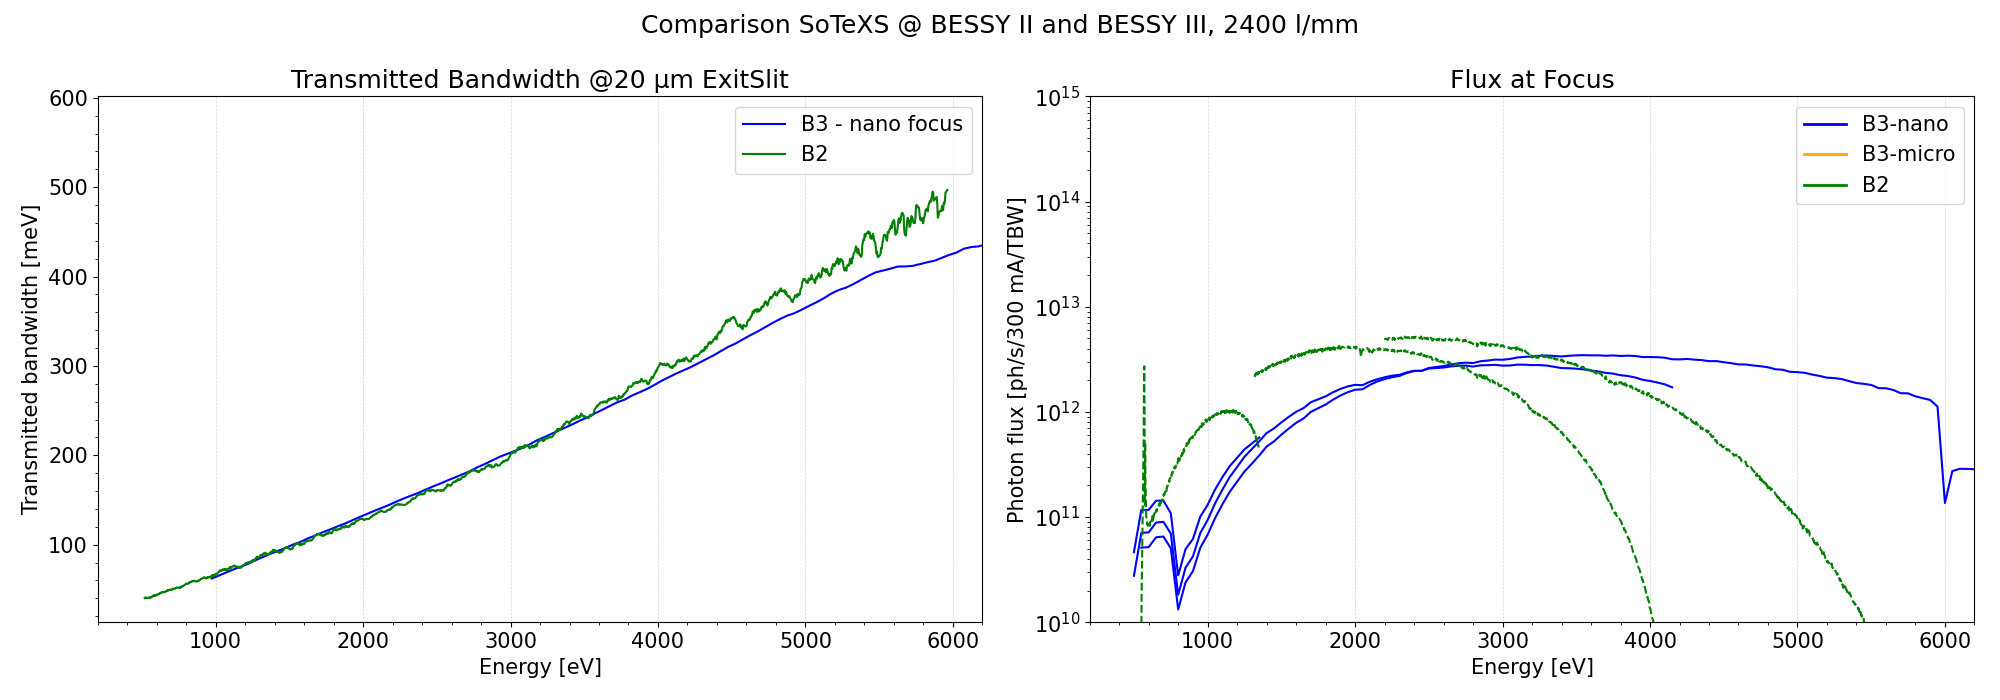
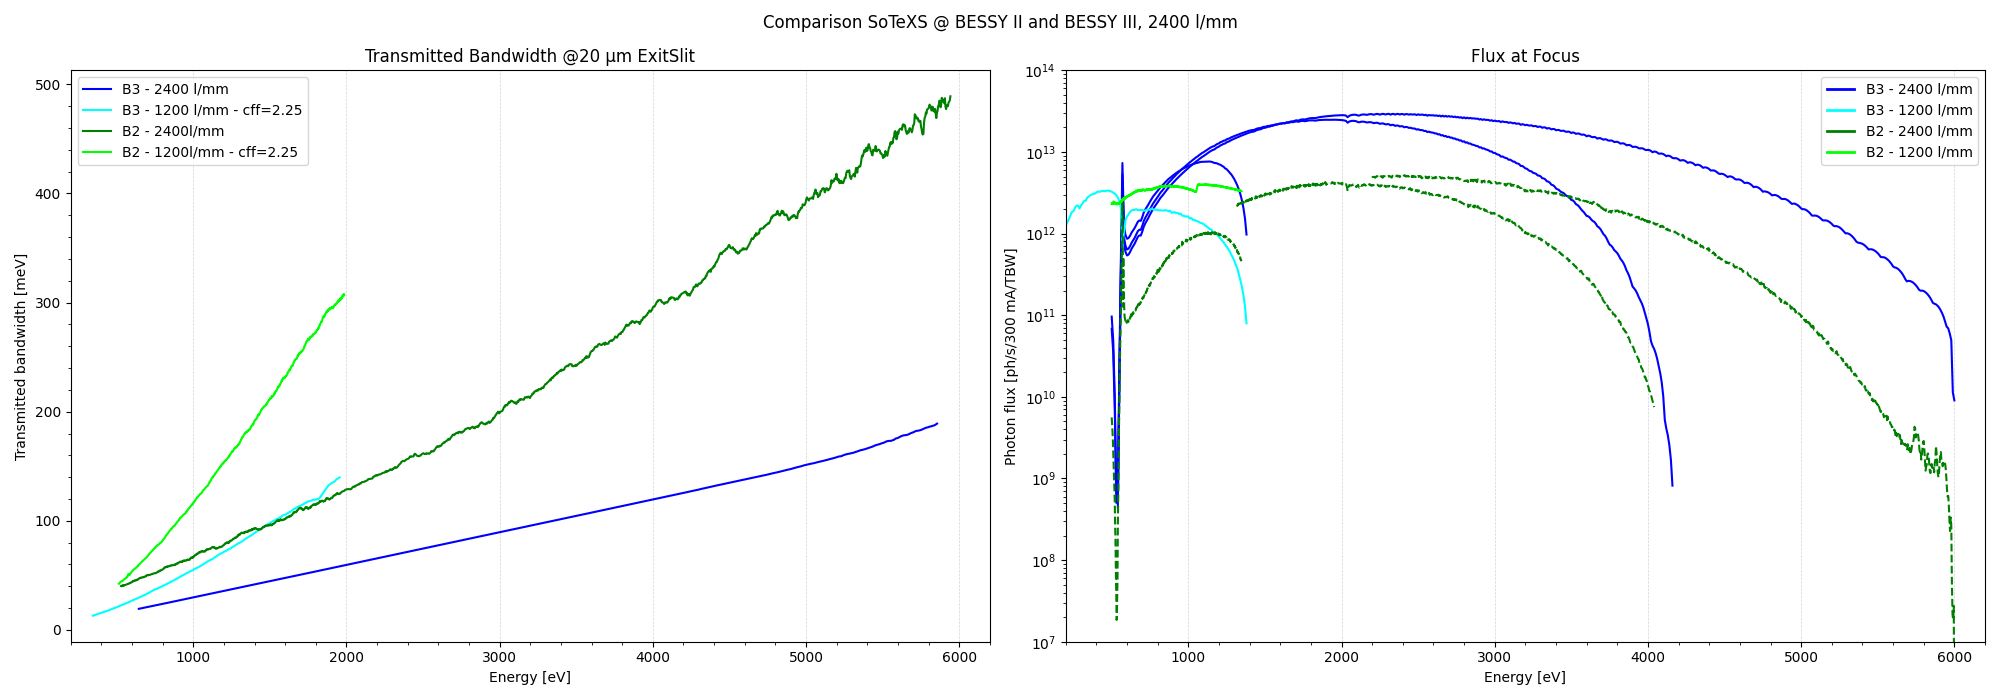
eval

diff --git a/beamlines/Signature2-Liquid_Interface/simulations/comparison_with_sotexs_BII/eval_2400_talk.py b/beamlines/Signature2-Liquid_Interface/simulations/comparison_with_sotexs_BII/eval_2400_talk.py
@@ -24,95 +24,106 @@ mov_av = p.moving_average
 # LOAD IN DATA
 
 # Read CSV-File of the Beamline Simulation
-BL_file_path = os.path.join('../../../Signature1-SoTeXS/simulations/characterization/RAYPy_Simulation_sotexs_2400', 'DetectorAtFocus_RawRaysOutgoing.csv')
+BL_file_path = os.path.join('../characterization/RAYPy_Simulation_elisa_2400', 'DetectorAtFocus_RawRaysOutgoing.csv')
 BL_df = pd.read_csv(BL_file_path)
 
+# Read CSV-File of the Beamline Simulation
+BL_file_path = os.path.join('../characterization/RAYPy_Simulation_elisa_1200', 'DetectorAtFocus_RawRaysOutgoing.csv')
+BL_df_1200 = pd.read_csv(BL_file_path)
+BL_df_1200_5 = BL_df_1200[BL_df_1200['PG.cFactor'] == 5]
+BL_df_1200 = BL_df_1200[BL_df_1200['PG.cFactor'] == 2.25]
 
 # Read CSV-File of the Beamline Simulation
 BL_file_path = os.path.join('RAYPy_Simulation_2400', 'DetectorAtFocus_RawRaysOutgoing.csv')
 BL_df_2 = pd.read_csv(BL_file_path)
 
+# Read CSV-File of the Beamline Simulation
+BL_file_path = os.path.join('RAYPy_Simulation_1200_Pt', 'DetectorAtFocus_RawRaysOutgoing.csv')
+BL_df_2_1200 = pd.read_csv(BL_file_path)
+BL_df_2_1200 = BL_df_2_1200[BL_df_2_1200['PhotonEnergy'] <= 2000]
+
 harms=[1,3,5]
-##############################################################
-# PLOTTING AND ANALYSIS
-plt.rcParams.update({'font.size': 15})  # Change 14 to any size you prefer
-# Create the Main figure
-fig, (axs) = plt.subplots(1, 2, figsize=(20, 7))
-fig.suptitle('Comparison Liquid Interface @ BESSY III and SoTeXS @ BESSY II, 2400 l/mm')
 x_range = [200, 6200]
 
-# MIRROR REFLECTIVITY
-ax1 = axs[0]
-# Coatings:
-de = 0.01
-table = 'Henke'
-theta = 0.4
-E = np.arange(x_range[0], x_range[-1], de)
-Ir  = rm.Material('Ir',  rho=22.56, kind='mirror',table=table)
-Cr  = rm.Material('Cr',  rho=7.15,  kind='mirror',table=table)
-B4C = rm.Material('C',   rho=2.52,  kind='mirror',table=table)
-IrCrB4C = rm.Multilayer(tLayer=B4C, tThickness=40, 
-                        bLayer=Cr, bThickness=60, 
-                        nPairs=1, substrate=Ir)
+# ##############################################################
+# # PLOTTING AND ANALYSIS
+# plt.rcParams.update({'font.size': 15})  # Change 14 to any size you prefer
+# # Create the Main figure
+# fig, (axs) = plt.subplots(1, 2, figsize=(20, 7))
+# fig.suptitle('Comparison Liquid Interface @ BESSY III and SoTeXS @ BESSY II, 2400 l/mm')
 
-Ir, _ = get_reflectivity(Ir, E=E, theta=theta)
-Cr, _ = get_reflectivity(Cr, E=E, theta=theta)
-B4C, _ = get_reflectivity(B4C, E=E, theta=theta)
-IrCrB4C, _ = get_reflectivity(IrCrB4C, E=E, theta=theta)
+# # MIRROR REFLECTIVITY
+# ax1 = axs[0]
+# # Coatings:
+# de = 0.01
+# table = 'Henke'
+# theta = 0.4
+# E = np.arange(x_range[0], x_range[-1], de)
+# Ir  = rm.Material('Ir',  rho=22.56, kind='mirror',table=table)
+# Cr  = rm.Material('Cr',  rho=7.15,  kind='mirror',table=table)
+# B4C = rm.Material('C',   rho=2.52,  kind='mirror',table=table)
+# IrCrB4C = rm.Multilayer(tLayer=B4C, tThickness=40, 
+#                         bLayer=Cr, bThickness=60, 
+#                         nPairs=1, substrate=Ir)
 
-ax1.plot(E, Ir, 'gold', label='Ir', alpha=0.5)
-ax1.plot(E, Cr, 'blue', label='Cr', alpha=0.5)
-ax1.plot(E, B4C, 'red', label='B4C', alpha=0.5)
-ax1.plot(E, IrCrB4C, 'black', label='IrCrB4C', linewidth=2)
+# Ir, _ = get_reflectivity(Ir, E=E, theta=theta)
+# Cr, _ = get_reflectivity(Cr, E=E, theta=theta)
+# B4C, _ = get_reflectivity(B4C, E=E, theta=theta)
+# IrCrB4C, _ = get_reflectivity(IrCrB4C, E=E, theta=theta)
 
-ax1.set_title('Mirror Coating Reflectivity @ 'f'{theta}° incident angle')
-ax1.set_xlabel('Energy [eV]')
-ax1.set_ylabel('Reflectivity [a.u.]')
-ax1.legend()
-ax1.set_xlim(x_range)
-ax1.minorticks_on()
-ax1.grid(which='major', axis='x', linestyle='--', linewidth=0.5, color='lightgrey')
+# ax1.plot(E, Ir, 'gold', label='Ir', alpha=0.5)
+# ax1.plot(E, Cr, 'blue', label='Cr', alpha=0.5)
+# ax1.plot(E, B4C, 'red', label='B4C', alpha=0.5)
+# ax1.plot(E, IrCrB4C, 'black', label='IrCrB4C', linewidth=2)
 
-
-
-ax3 = axs[0]
-
-window = 20
-colors = ['red', 'blue', 'green']
-color_B2 = ['salmon', 'skyblue', 'lightgreen']
+# ax1.set_title('Mirror Coating Reflectivity @ 'f'{theta}° incident angle')
+# ax1.set_xlabel('Energy [eV]')
+# ax1.set_ylabel('Reflectivity [a.u.]')
+# ax1.legend()
+# ax1.set_xlim(x_range)
+# ax1.minorticks_on()
+# ax1.grid(which='major', axis='x', linestyle='--', linewidth=0.5, color='lightgrey')
 
 
-ax3 = axs[1]
-for ind,harm in enumerate(harms):
-    ax3.plot(undulator_3[f'Energy{harm}[eV]'], 
-             undulator_3[f'Photons{harm}'],
-             color=colors[ind], linestyle='solid',
-             label=f'B3-Harm. {harm}')
-for ind,harm in enumerate(harms):
-    ax3.plot(undulator_2[f'Energy{harm}[eV]'], 
-             undulator_2[f'Photons{harm}'],
-             color=colors[ind], linestyle='dashed',
-             label=f'B2-Harm. {harm}')
+
+# ax3 = axs[0]
+
+# window = 20
+# colors = ['red', 'blue', 'green']
+# color_B2 = ['salmon', 'skyblue', 'lightgreen']
+
+
+# ax3 = axs[1]
+# for ind,harm in enumerate(harms):
+#     ax3.plot(undulator_3[f'Energy{harm}[eV]'], 
+#              undulator_3[f'Photons{harm}'],
+#              color=colors[ind], linestyle='solid',
+#              label=f'B3-Harm. {harm}')
+# for ind,harm in enumerate(harms):
+#     ax3.plot(undulator_2[f'Energy{harm}[eV]'], 
+#              undulator_2[f'Photons{harm}'],
+#              color=colors[ind], linestyle='dashed',
+#              label=f'B2-Harm. {harm}')
     
-ax3.legend()
-ax3.set_yscale('log')
-ax3.set_xlabel('Energy [eV]')
-ax3.set_ylabel('Ph/s/0.3A/0.1%BW')
-ax3.set_xlim(x_range)
-ax3.set_ylim(9e7, 5e15)
-ax3.set_title('IVUE42 @ BESSY III vs CPMU21 @ BESSY II')
+# ax3.legend()
+# ax3.set_yscale('log')
+# ax3.set_xlabel('Energy [eV]')
+# ax3.set_ylabel('Ph/s/0.3A/0.1%BW')
+# ax3.set_xlim(x_range)
+# ax3.set_ylim(9e7, 5e15)
+# ax3.set_title('IVUE42 @ BESSY III vs CPMU21 @ BESSY II')
 
-# SAVING
-# Ensure the "plot" folder exists
-plot_folder = 'plot'
-if not os.path.exists(plot_folder):
-    os.makedirs(plot_folder)
+# # SAVING
+# # Ensure the "plot" folder exists
+# plot_folder = 'plot'
+# if not os.path.exists(plot_folder):
+#     os.makedirs(plot_folder)
 
-# Save the the figure
-plt.tight_layout()
-plt.savefig('plot/talk/LiquidInterface_2400_comparison_1.png')
-# plt.show()
-plt.close()
+# # Save the the figure
+# plt.tight_layout()
+# plt.savefig('plot/talk/LiquidInterface_2400_comparison_1.png')
+# # plt.show()
+# plt.close()
 
 
 
@@ -126,22 +137,33 @@ fig.suptitle('Comparison SoTeXS @ BESSY II and BESSY III, 2400 l/mm')
 # TRANSMITTED BANDWIDTH
 ax3 = axs[0]
 
-window = 20
+window = 30
 colors = ['red', 'blue', 'green']
 color_B2 = ['salmon', 'skyblue', 'lightgreen']
 
 ax3.plot(mov_av(BL_df['PhotonEnergy'], window), 
              mov_av(BL_df['Bandwidth']*1000, window),
              linestyle='solid',
-             label=f'B3 - nano focus',
+             label=f'B3 - 2400 l/mm',
              color='blue')
+
+ax3.plot(mov_av(BL_df_1200['PhotonEnergy'], window), 
+             mov_av(BL_df_1200['Bandwidth']*1000, window),
+             linestyle='solid',
+             label=f'B3 - 1200 l/mm - cff=2.25',
+             color='cyan')
 
 ax3.plot(mov_av(BL_df_2['PhotonEnergy'], window), 
              mov_av(BL_df_2['Bandwidth']*1000, window),
              linestyle='solid',
-             label=f'B2', 
+             label=f'B2 - 2400l/mm', 
              color='green')
 
+ax3.plot(mov_av(BL_df_2_1200['PhotonEnergy'], window), 
+             mov_av(BL_df_2_1200['Bandwidth']*1000, window),
+             linestyle='solid',
+             label=f'B2 - 1200l/mm - cff=2.25', 
+             color='lime')
 
 
 ax3.set_title(f'Transmitted Bandwidth @{int(SlitSize[0]*1000)} µm ExitSlit')
@@ -163,7 +185,17 @@ for ind,harm in enumerate(harms):
     ax4.plot(mov_av(filtered_df['PhotonEnergy'], window), 
              mov_av(filtered_df[f'PhotonFlux{harm}'], window),
              color='blue', linestyle='solid',
-             label=f'B3-nano')
+             label=f'B3 2400 l/mm')
+
+for ind,harm in enumerate([1]):
+    Emin_harm = undulator_3[f'Energy{harm}[eV]'].min()
+    Emax_harm = undulator_3[f'Energy{harm}[eV]'].max()
+    filtered_df = BL_df_1200[(BL_df_1200['PhotonEnergy'] >= Emin_harm) & (BL_df_1200['PhotonEnergy'] <= Emax_harm)]
+    ax4.plot(mov_av(filtered_df['PhotonEnergy'], window), 
+             mov_av(filtered_df[f'PhotonFlux{harm}'], window),
+             color='cyan', linestyle='solid',
+             label=f'B3 1200 l/mm')
+    
     
 for ind,harm in enumerate(harms):    
     Emin_harm = undulator_2[f'Energy{harm}[eV]'].min()
@@ -173,22 +205,31 @@ for ind,harm in enumerate(harms):
                 mov_av(filtered_df[f'PhotonFlux{harm}'], window),
                 color='green', linestyle='dashed',
                 label=f'B2-Harm. {harm}')
-    
+
+for ind,harm in enumerate([1]):
+    Emin_harm = undulator_2[f'Energy{harm}[eV]'].min()
+    Emax_harm = undulator_2[f'Energy{harm}[eV]'].max()
+    filtered_df = BL_df_2_1200[(BL_df_2_1200['PhotonEnergy'] >= Emin_harm) & (BL_df_2_1200['PhotonEnergy'] <= Emax_harm)]
+    ax4.plot(mov_av(filtered_df['PhotonEnergy'], window), 
+             mov_av(filtered_df[f'PhotonFlux{harm}'], window),
+             color='lime', linestyle='solid',
+             label=f'B2 1200 l/mm')    
 
 ax4.set_title('Flux at Focus')
 ax4.set_xlabel('Energy [eV]')
 ax4.set_ylabel('Photon flux [ph/s/300 mA/TBW]')
 custom_lines = [
     Line2D([0], [0], color='blue', linestyle='solid', lw=2),
-    Line2D([0], [0], color='orange', linestyle='solid', lw=2),
-    Line2D([0], [0], color='green', linestyle='solid', lw=2)
+    Line2D([0], [0], color='cyan', linestyle='solid', lw=2),
+    Line2D([0], [0], color='green', linestyle='solid', lw=2),
+    Line2D([0], [0], color='lime', linestyle='solid', lw=2)
 ]
 
-ax4.legend(custom_lines, ['B3-nano', 'B3-micro', 'B2'], loc='best')
+ax4.legend(custom_lines, ['B3 - 2400 l/mm', 'B3 - 1200 l/mm', 'B2 - 2400 l/mm', 'B2 - 1200 l/mm'], loc='best')
 ax4.set_xlim(x_range)
 ax4.minorticks_on()
 ax4.grid(which='major', axis='x', linestyle='--', linewidth=0.5, color='lightgrey')
-ax4.set_ylim((10e9,1e15))
+ax4.set_ylim((1e7,1e14))
 ax4.set_yscale('log')
 
 # Save the the figure
@@ -200,7 +241,114 @@ plt.close()
 
 
 
+###################################################
+fig, (axs) = plt.subplots(1, 2, figsize=(20, 7))
+fig.suptitle('Comparison SoTeXS @ BESSY II and BESSY III, 2400 l/mm')
 
+
+# TRANSMITTED BANDWIDTH
+ax3 = axs[0]
+
+window = 30
+colors = ['red', 'blue', 'green']
+color_B2 = ['salmon', 'skyblue', 'lightgreen']
+
+ax3.plot(mov_av(BL_df['PhotonEnergy'], window), 
+             mov_av(BL_df['PhotonEnergy']/BL_df['Bandwidth'], window),
+             linestyle='solid',
+             label=f'B3 - 2400 l/mm',
+             color='blue')
+
+ax3.plot(mov_av(BL_df_1200['PhotonEnergy'], window), 
+             mov_av(BL_df_1200['PhotonEnergy']/BL_df_1200['Bandwidth'], window),
+             linestyle='solid',
+             label=f'B3 - 1200 l/mm - cff=2.25',
+             color='cyan')
+
+ax3.plot(mov_av(BL_df_2['PhotonEnergy'], window), 
+             mov_av(BL_df_2['PhotonEnergy']/BL_df_2['Bandwidth'], window),
+             linestyle='solid',
+             label=f'B2 - 2400l/mm', 
+             color='green')
+
+ax3.plot(mov_av(BL_df_2_1200['PhotonEnergy'], window), 
+             mov_av(BL_df_2_1200['PhotonEnergy']/BL_df_2_1200['Bandwidth'], window),
+             linestyle='solid',
+             label=f'B2 - 1200l/mm - cff=2.25', 
+             color='lime')
+
+
+ax3.set_title(f'Resolving Power @{int(SlitSize[0]*1000)} µm ExitSlit')
+ax3.set_xlabel('Energy [eV]')
+ax3.set_ylabel('Resolving Power [a.u.]')
+ax3.legend(loc='best')
+ax3.set_xlim(x_range)
+ax3.minorticks_on()
+ax3.grid(which='major', axis='x', linestyle='--', linewidth=0.5, color='lightgrey')
+
+
+# BEAMLINE FLUX CURVE
+ax4 = axs[1]
+window = 1
+for ind,harm in enumerate(harms):
+    Emin_harm = undulator_3[f'Energy{harm}[eV]'].min()
+    Emax_harm = undulator_3[f'Energy{harm}[eV]'].max()
+    filtered_df = BL_df[(BL_df['PhotonEnergy'] >= Emin_harm) & (BL_df['PhotonEnergy'] <= Emax_harm)]
+    ax4.plot(mov_av(filtered_df['PhotonEnergy'], window), 
+             mov_av(filtered_df[f'PhotonFlux{harm}'], window),
+             color='blue', linestyle='solid',
+             label=f'B3 2400 l/mm')
+
+for ind,harm in enumerate([1]):
+    Emin_harm = undulator_3[f'Energy{harm}[eV]'].min()
+    Emax_harm = undulator_3[f'Energy{harm}[eV]'].max()
+    filtered_df = BL_df_1200[(BL_df_1200['PhotonEnergy'] >= Emin_harm) & (BL_df_1200['PhotonEnergy'] <= Emax_harm)]
+    ax4.plot(mov_av(filtered_df['PhotonEnergy'], window), 
+             mov_av(filtered_df[f'PhotonFlux{harm}'], window),
+             color='cyan', linestyle='solid',
+             label=f'B3 1200 l/mm')
+    
+    
+for ind,harm in enumerate(harms):    
+    Emin_harm = undulator_2[f'Energy{harm}[eV]'].min()
+    Emax_harm = undulator_2[f'Energy{harm}[eV]'].max()
+    filtered_df = BL_df_2[(BL_df_2['PhotonEnergy'] >= Emin_harm) & (BL_df_2['PhotonEnergy'] <= Emax_harm)]
+    ax4.plot(mov_av(filtered_df['PhotonEnergy'], window), 
+                mov_av(filtered_df[f'PhotonFlux{harm}'], window),
+                color='green', linestyle='dashed',
+                label=f'B2-Harm. {harm}')
+
+for ind,harm in enumerate([1]):
+    Emin_harm = undulator_2[f'Energy{harm}[eV]'].min()
+    Emax_harm = undulator_2[f'Energy{harm}[eV]'].max()
+    filtered_df = BL_df_2_1200[(BL_df_2_1200['PhotonEnergy'] >= Emin_harm) & (BL_df_2_1200['PhotonEnergy'] <= Emax_harm)]
+    ax4.plot(mov_av(filtered_df['PhotonEnergy'], window), 
+             mov_av(filtered_df[f'PhotonFlux{harm}'], window),
+             color='lime', linestyle='solid',
+             label=f'B2 1200 l/mm')    
+
+ax4.set_title('Flux at Focus')
+ax4.set_xlabel('Energy [eV]')
+ax4.set_ylabel('Photon flux [ph/s/300 mA/TBW]')
+custom_lines = [
+    Line2D([0], [0], color='blue', linestyle='solid', lw=2),
+    Line2D([0], [0], color='cyan', linestyle='solid', lw=2),
+    Line2D([0], [0], color='green', linestyle='solid', lw=2),
+    Line2D([0], [0], color='lime', linestyle='solid', lw=2)
+]
+
+ax4.legend(custom_lines, ['B3 - 2400 l/mm', 'B3 - 1200 l/mm', 'B2 - 2400 l/mm', 'B2 - 1200 l/mm'], loc='best')
+ax4.set_xlim(x_range)
+ax4.minorticks_on()
+ax4.grid(which='major', axis='x', linestyle='--', linewidth=0.5, color='lightgrey')
+ax4.set_ylim((1e7,1e14))
+ax4.set_yscale('log')
+
+# Save the the figure
+plt.tight_layout()
+plt.savefig('plot/talk/LiquidInterface_2400_comparison_3.png')
+# plt.show()
+plt.close()
 
 
 
